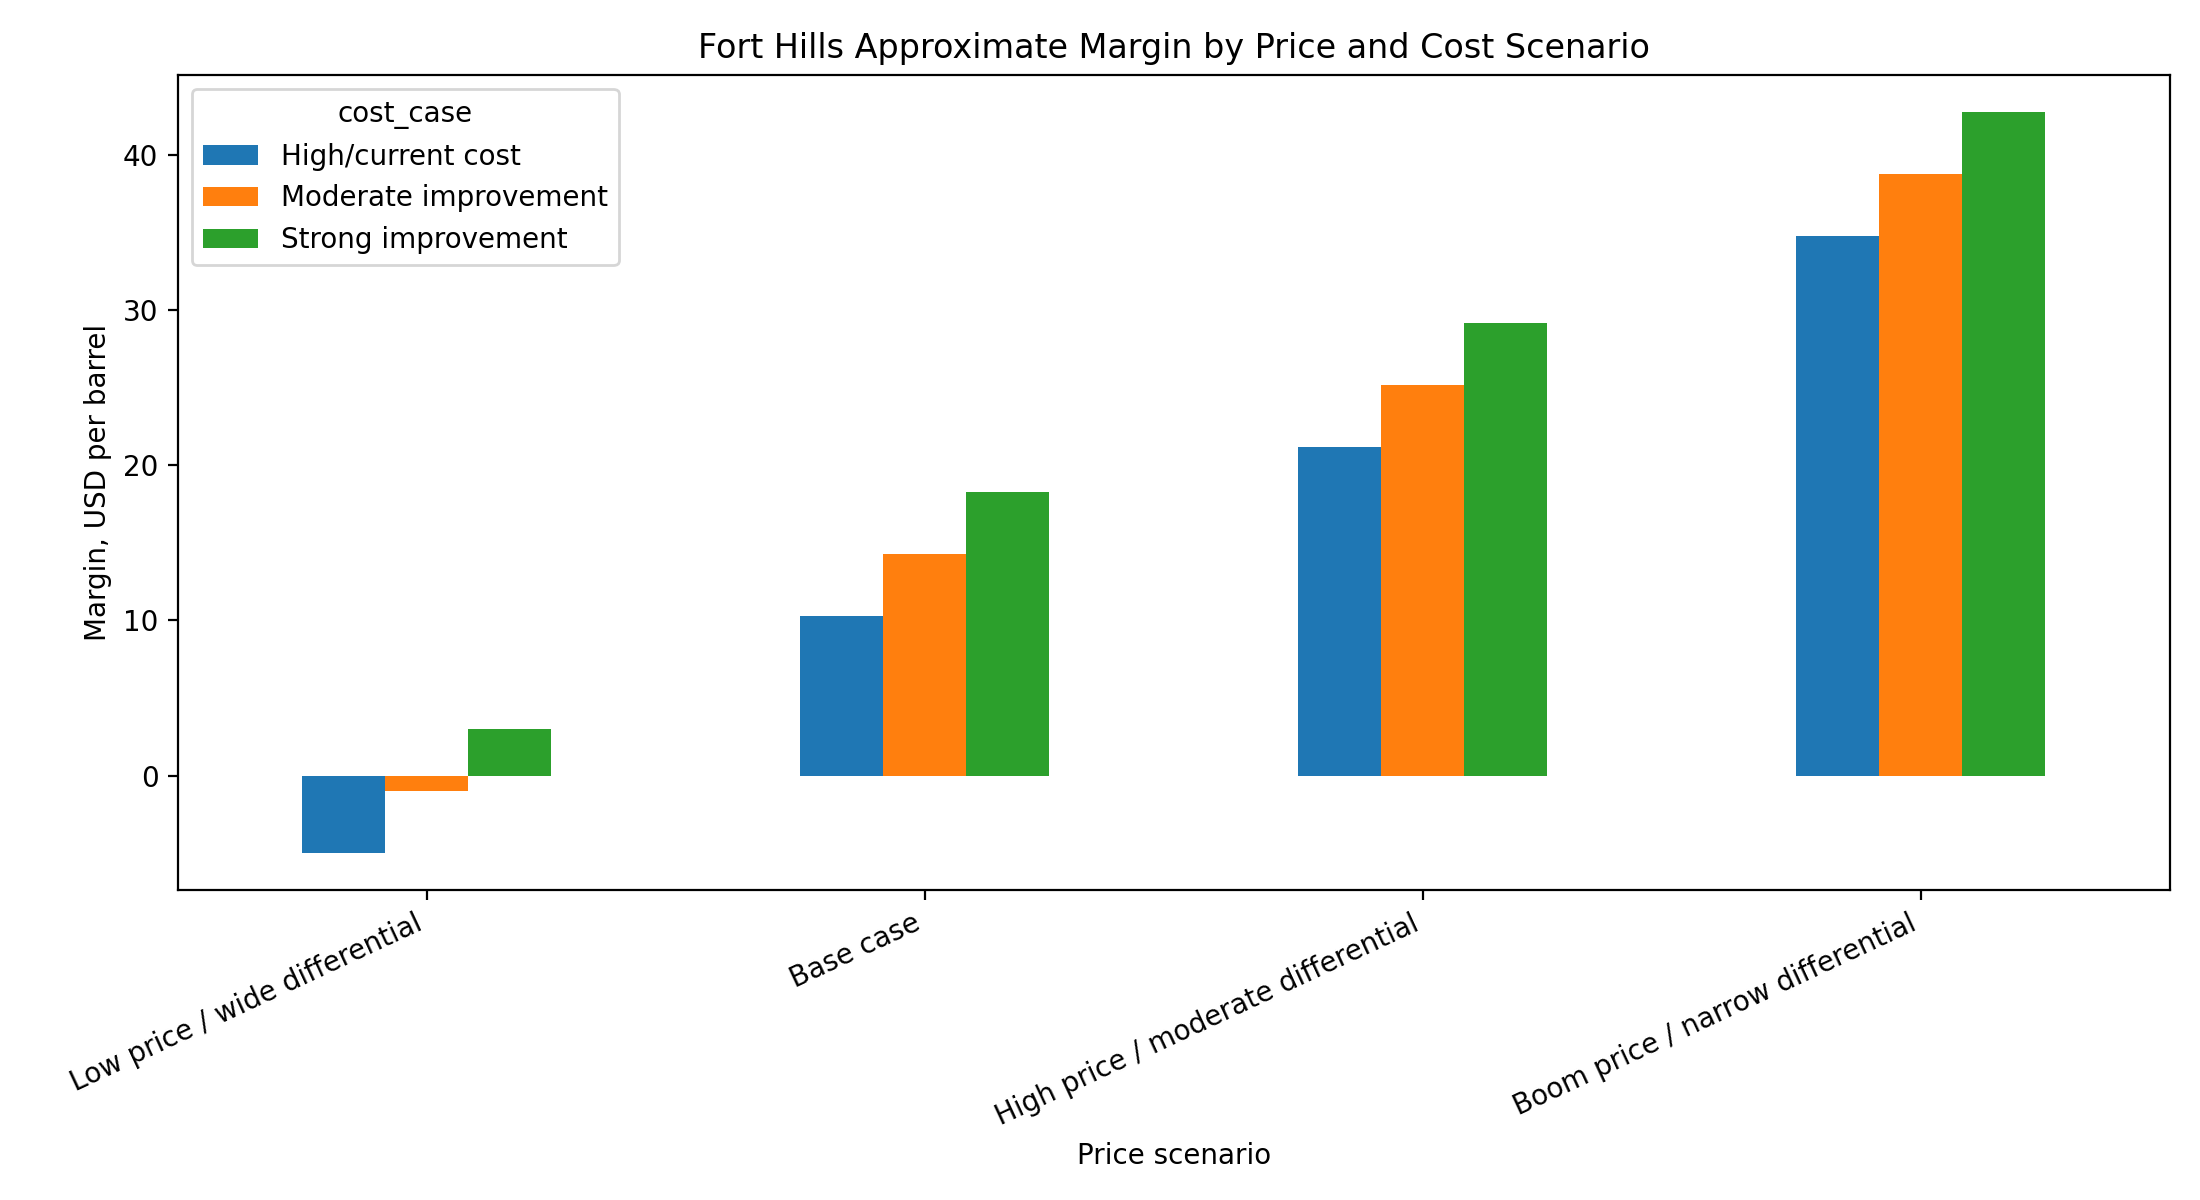
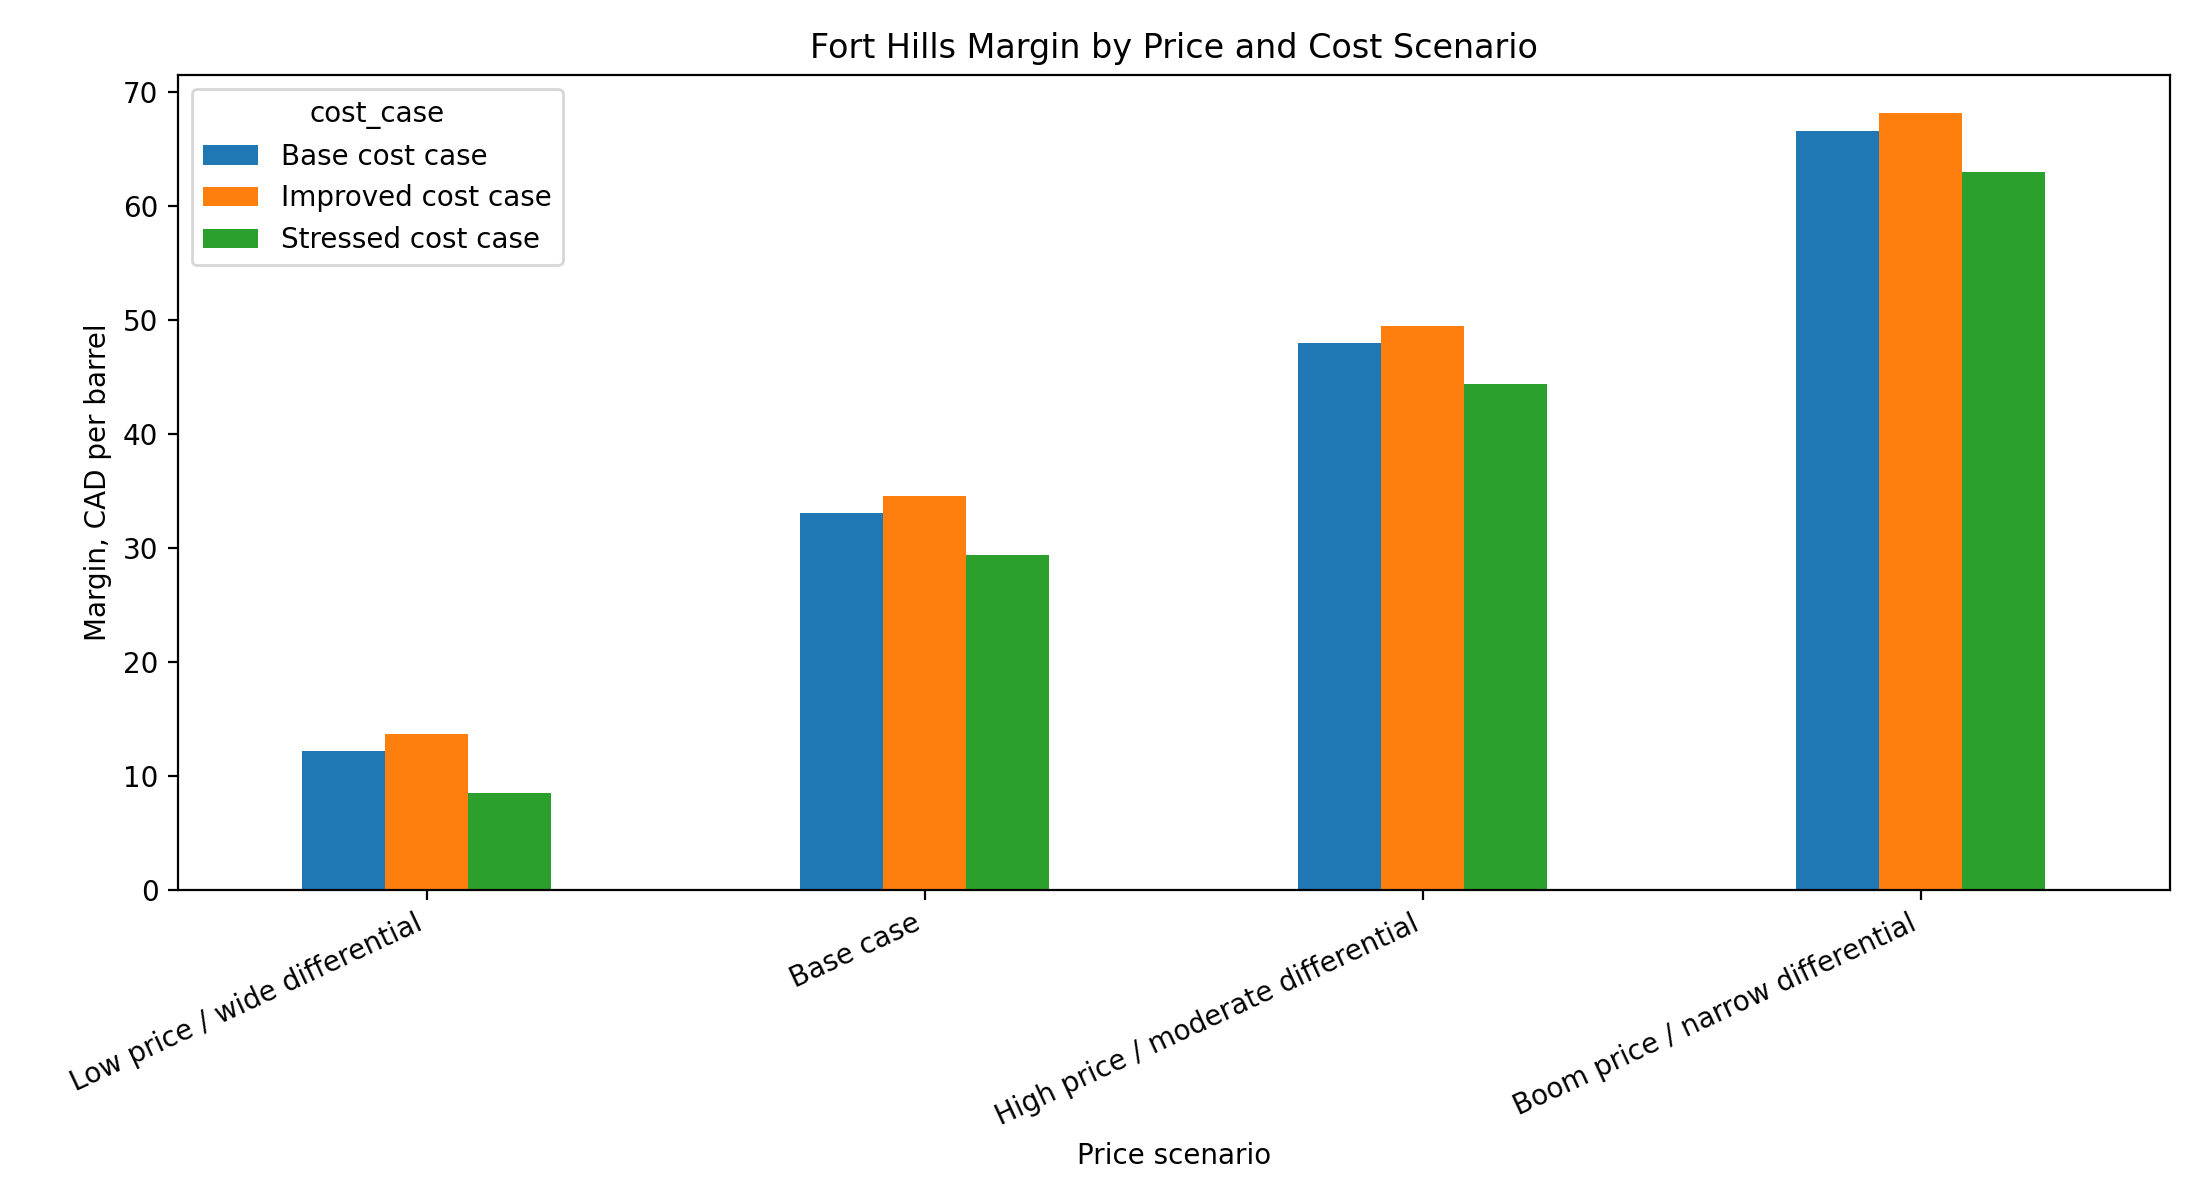
Update figures for CAD Fort Hills margins

diff --git a/src/04_build_figures.py b/src/04_build_figures.py
@@ -1,52 +1,67 @@
 """Build paper-ready figures."""
+
 from pathlib import Path
+
 import pandas as pd
 import matplotlib.pyplot as plt
 
+
 ROOT = Path(__file__).resolve().parents[1]
-CLEAN = ROOT / 'data' / 'cleaned'
-TABLES = ROOT / 'outputs' / 'tables'
-FIG = ROOT / 'outputs' / 'figures'
+CLEAN = ROOT / "data" / "cleaned"
+TABLES = ROOT / "outputs" / "tables"
+FIG = ROOT / "outputs" / "figures"
+
 FIG.mkdir(parents=True, exist_ok=True)
 
-panel = pd.read_csv(CLEAN / 'monthly_price_panel.csv', parse_dates=['month'])
-plot_panel = panel[panel['month'] >= '2005-01-01'].copy()
 
-# Figure 1: WTI and WCS
+# Figure 1: WTI and WCS monthly prices
+panel = pd.read_csv(CLEAN / "monthly_price_panel.csv", parse_dates=["month"])
+plot_panel = panel[panel["month"] >= "2005-01-01"].copy()
+
 plt.figure(figsize=(10, 5))
-plt.plot(plot_panel['month'], plot_panel['wti_usd_bbl'], label='WTI')
-plt.plot(plot_panel['month'], plot_panel['wcs_usd_bbl'], label='WCS')
-plt.title('WTI and WCS Monthly Prices')
-plt.xlabel('Year')
-plt.ylabel('USD per barrel')
+plt.plot(plot_panel["month"], plot_panel["wti_usd_bbl"], label="WTI")
+plt.plot(plot_panel["month"], plot_panel["wcs_usd_bbl"], label="WCS")
+plt.title("WTI and WCS Monthly Prices")
+plt.xlabel("Year")
+plt.ylabel("USD per barrel")
 plt.legend()
 plt.tight_layout()
-plt.savefig(FIG / 'wti_wcs_monthly.png', dpi=200)
+plt.savefig(FIG / "wti_wcs_monthly.png", dpi=200)
 plt.close()
+
 
 # Figure 2: WTI-WCS differential
 plt.figure(figsize=(10, 5))
-plt.plot(plot_panel['month'], plot_panel['wti_wcs_diff_usd_bbl'])
-plt.title('WTI-WCS Differential')
-plt.xlabel('Year')
-plt.ylabel('USD per barrel')
+plt.plot(plot_panel["month"], plot_panel["wti_wcs_diff_usd_bbl"])
+plt.title("WTI-WCS Differential")
+plt.xlabel("Year")
+plt.ylabel("USD per barrel")
 plt.tight_layout()
-plt.savefig(FIG / 'wti_wcs_differential.png', dpi=200)
+plt.savefig(FIG / "wti_wcs_differential.png", dpi=200)
 plt.close()
 
-# Figure 3: Fort Hills margin scenarios
-res = pd.read_csv(TABLES / 'fort_hills_scenario_results.csv')
-pivot = res.pivot(index='scenario', columns='cost_case', values='margin_usd_bbl')
+
+# Figure 3: Fort Hills margin scenarios in CAD
+res = pd.read_csv(TABLES / "fort_hills_scenario_results.csv")
+
+pivot = res.pivot(
+    index="scenario",
+    columns="cost_case",
+    values="margin_cad_bbl",
+)
+
 # Preserve scenario order in CSV
-scenario_order = res['scenario'].drop_duplicates().tolist()
+scenario_order = res["scenario"].drop_duplicates().tolist()
 pivot = pivot.loc[scenario_order]
-ax = pivot.plot(kind='bar', figsize=(11, 6))
-ax.set_title('Fort Hills Approximate Margin by Price and Cost Scenario')
-ax.set_xlabel('Price scenario')
-ax.set_ylabel('Margin, USD per barrel')
-plt.xticks(rotation=25, ha='right')
+
+ax = pivot.plot(kind="bar", figsize=(11, 6))
+ax.set_title("Fort Hills Margin by Price and Cost Scenario")
+ax.set_xlabel("Price scenario")
+ax.set_ylabel("Margin, CAD per barrel")
+plt.xticks(rotation=25, ha="right")
 plt.tight_layout()
-plt.savefig(FIG / 'fort_hills_margin_scenarios.png', dpi=200)
+plt.savefig(FIG / "fort_hills_margin_scenarios.png", dpi=200)
 plt.close()
 
-print('Built figures in outputs/figures/')
+
+print("Built figures in outputs/figures/")